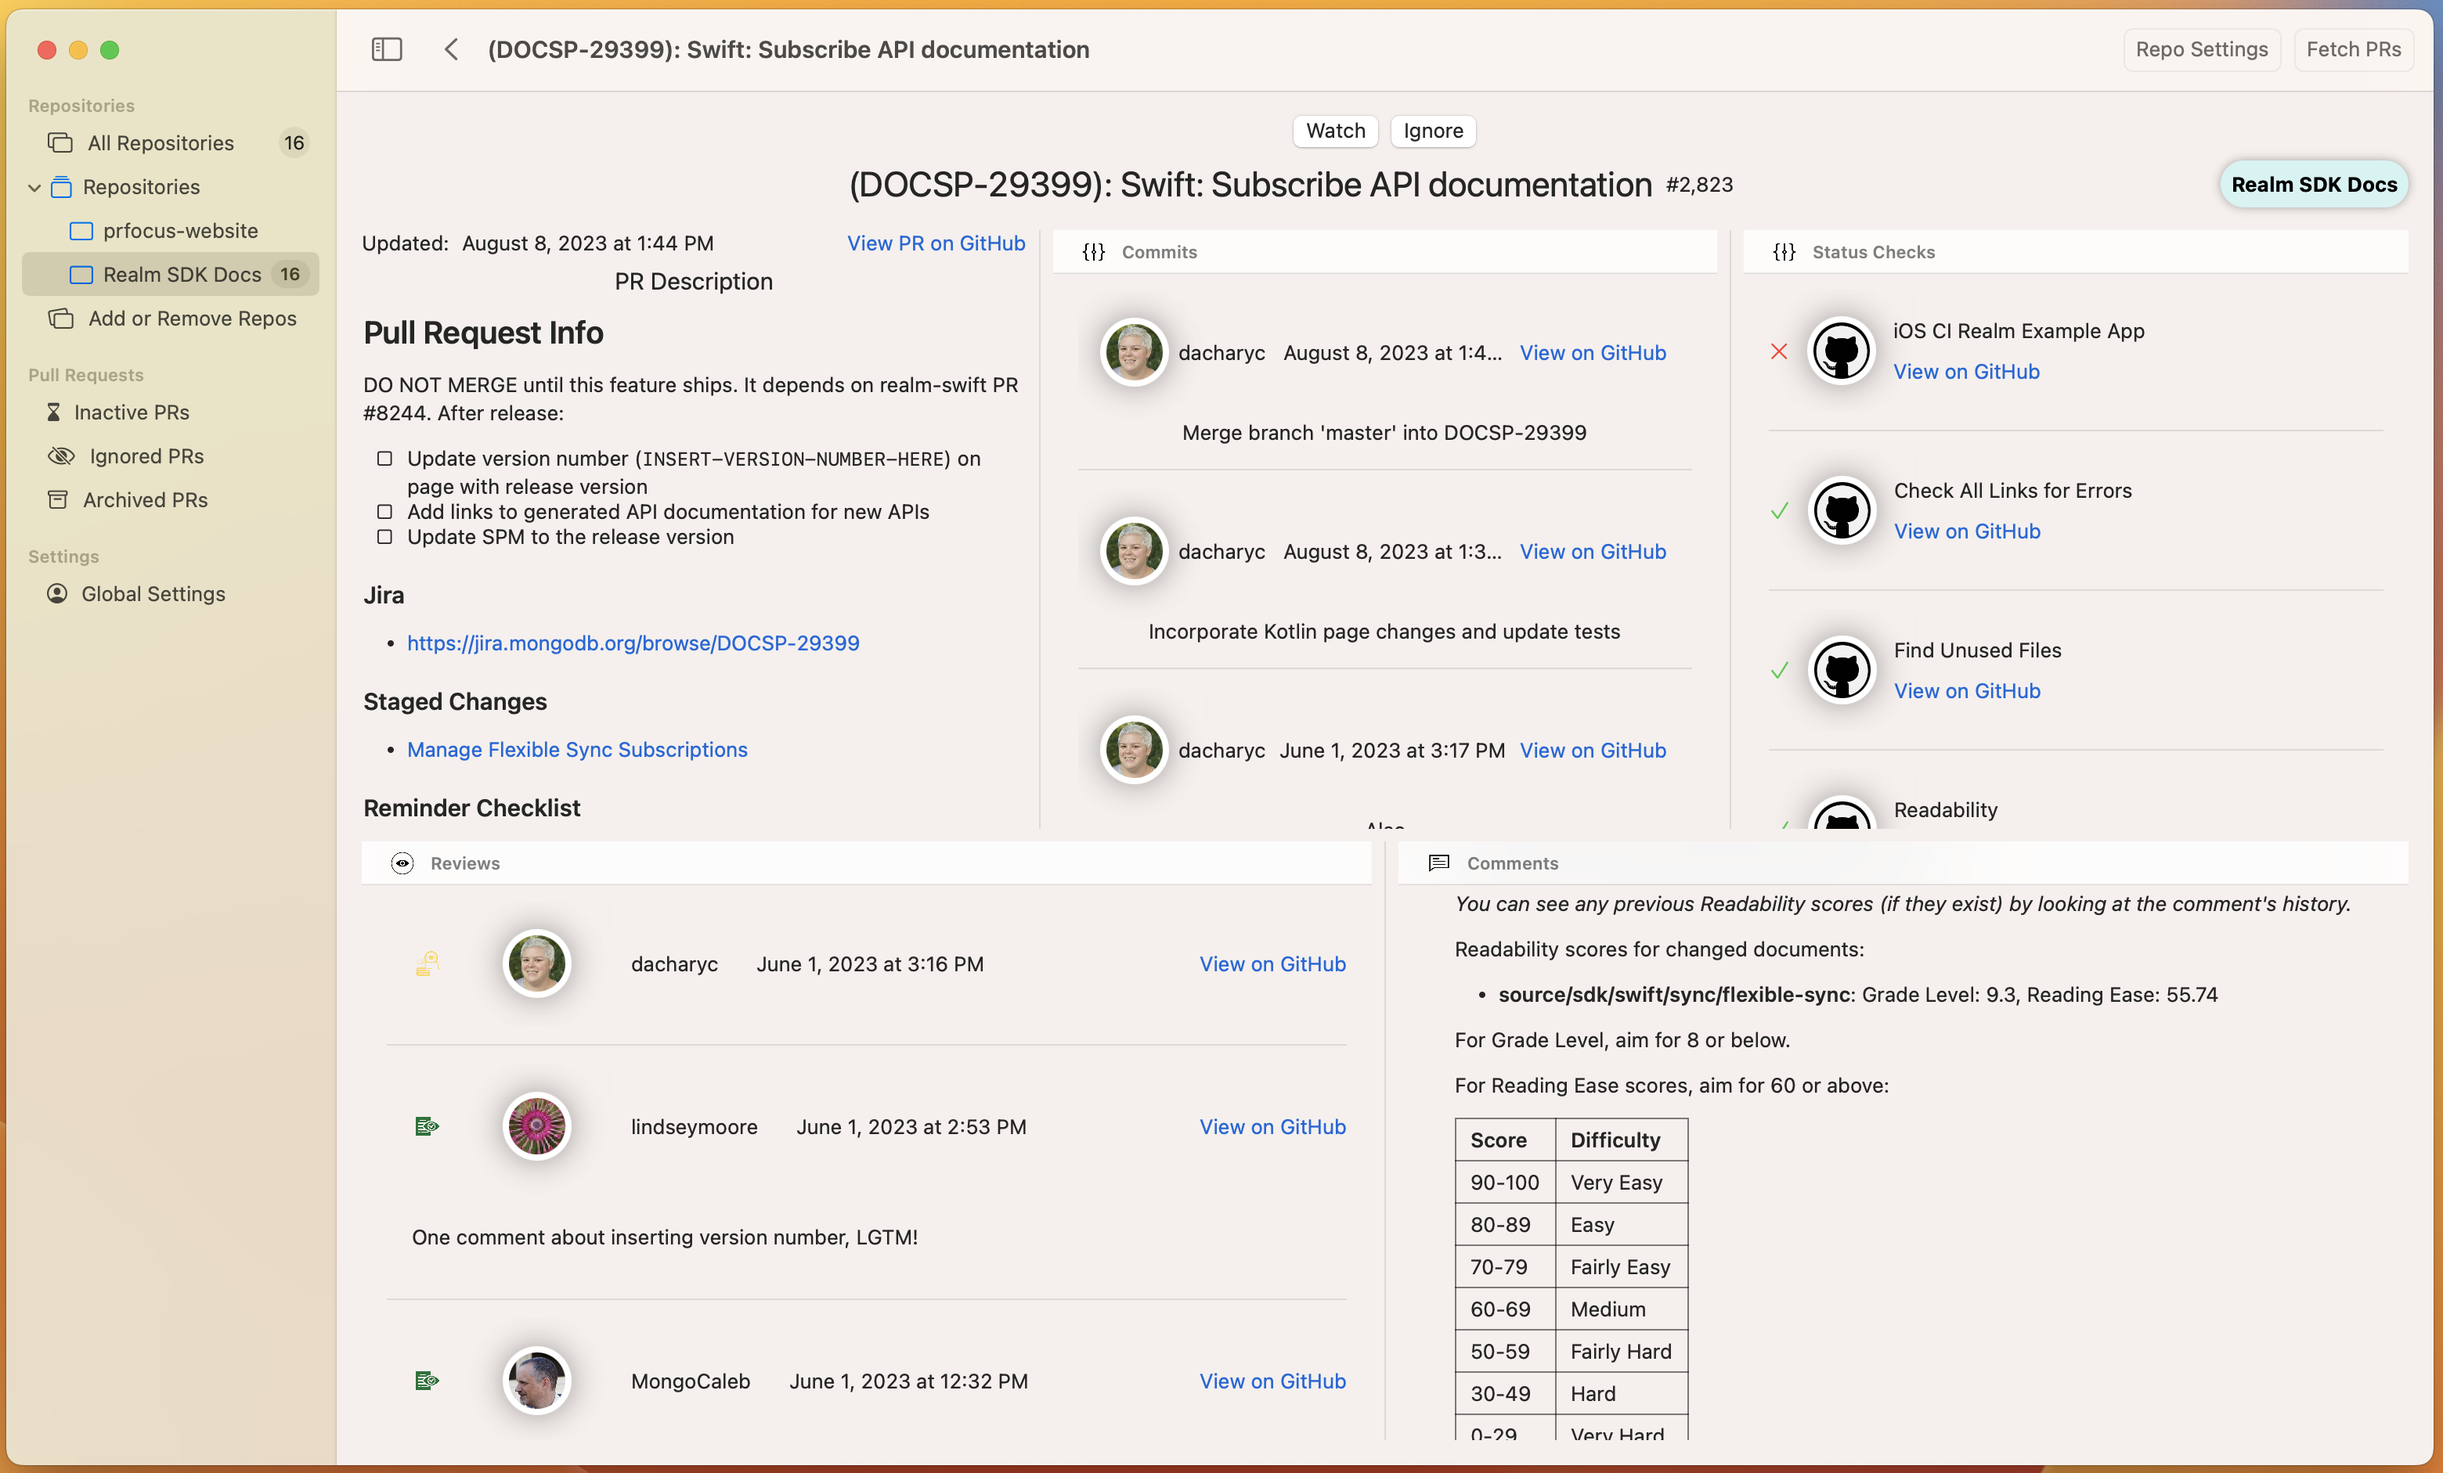
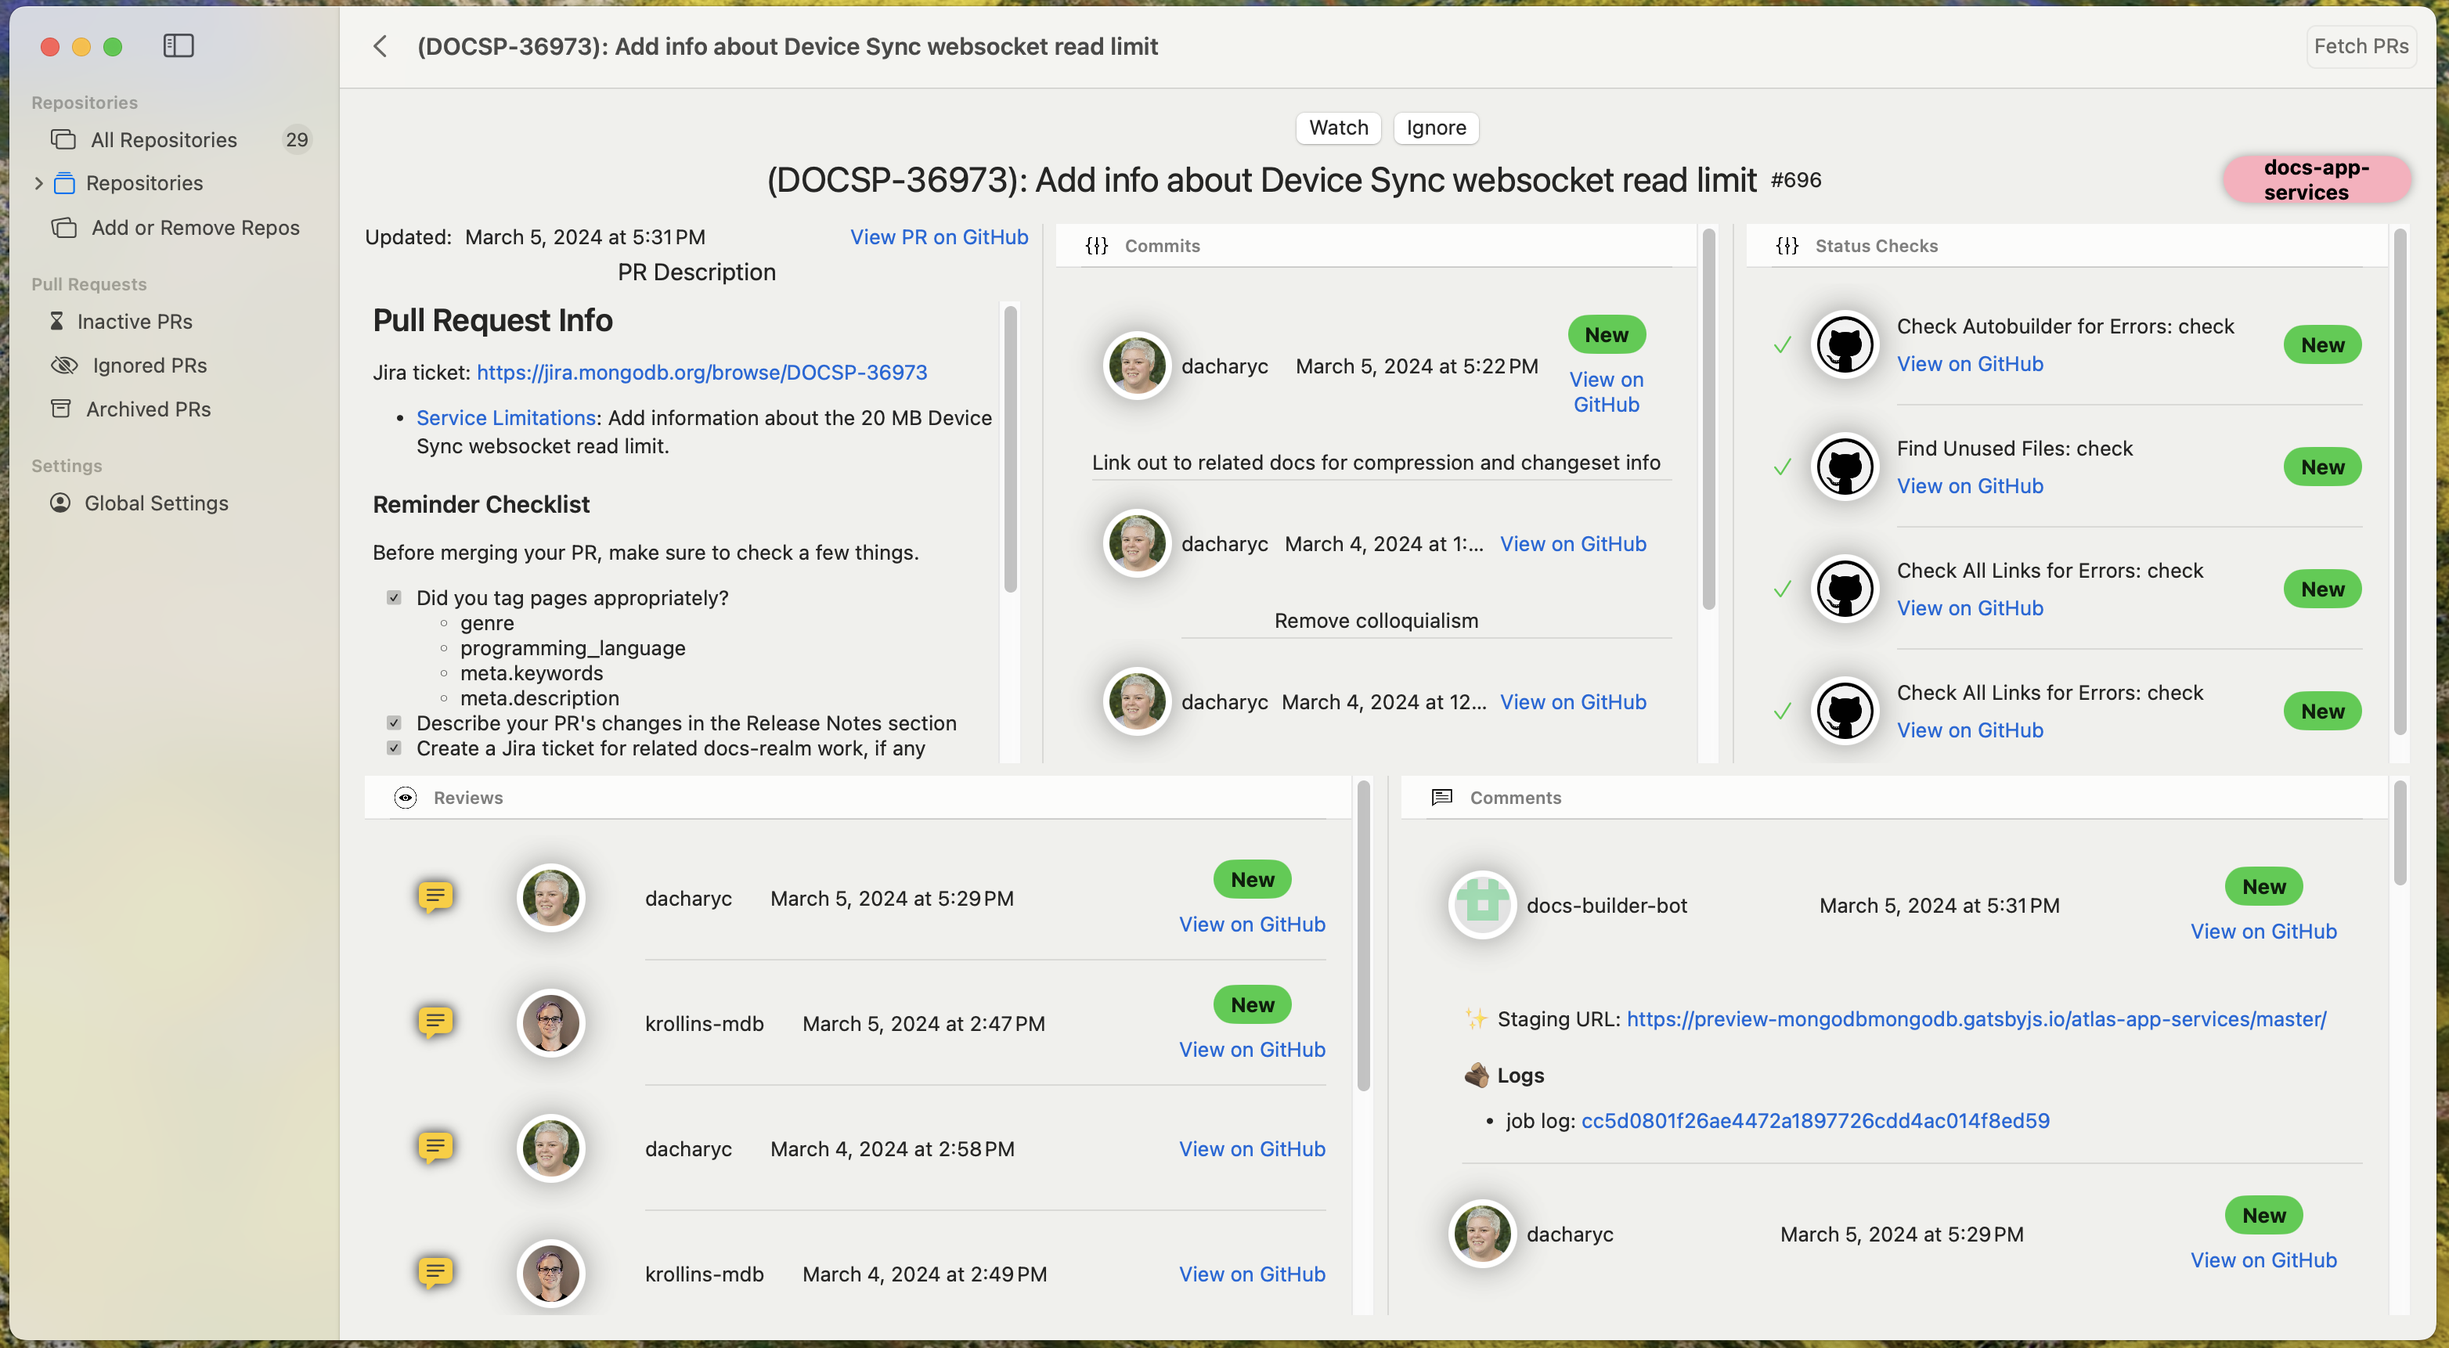
Update screenshots and docs for v0.3

diff --git a/content/en/docs/pull-requests/incoming-pr.md b/content/en/docs/pull-requests/incoming-pr.md
@@ -29,6 +29,8 @@ You can watch or ignore a PR in one of two ways:
 - If you can tell from the PR Summary whether you want to watch or ignore the PR, right-click on the PR Summary and select **Watch PR** or **Ignore PR** from the context menu.
 - Click into the PR Summary to view the PR Details and decide whether you want to watch or ignore the PR. Press the **Watch** or **Ignore** button.
 
+You can also select the "Open in GitHub" option if you want to view details about the PR that are not available in PR Focus, such as looking at the PR diff.
+
 ### Watch or Ignore a PR from the PR Summary
 
 ![Screenshot showing the Watch and Ignore options in a right-click context menu from the PR Summary](/images/watch-or-ignore-pr-context-menu.png)

diff --git a/content/en/docs/pull-requests/view-pr-details.md b/content/en/docs/pull-requests/view-pr-details.md
@@ -20,6 +20,7 @@ The PR Details view contains:
 - A list of status checks for the PR, with links to view each status check on GitHub
 - A list of reviews on the PR, with links to view each review on GitHub
 - A list of comments on the PR, with links to view each comment on GitHub
+- A "New" label for any item that has been added to PR Focus since you last viewed the PR details
 
 ![Screenshot showing the PR Details view](/images/pr-detail-view.png)
 
